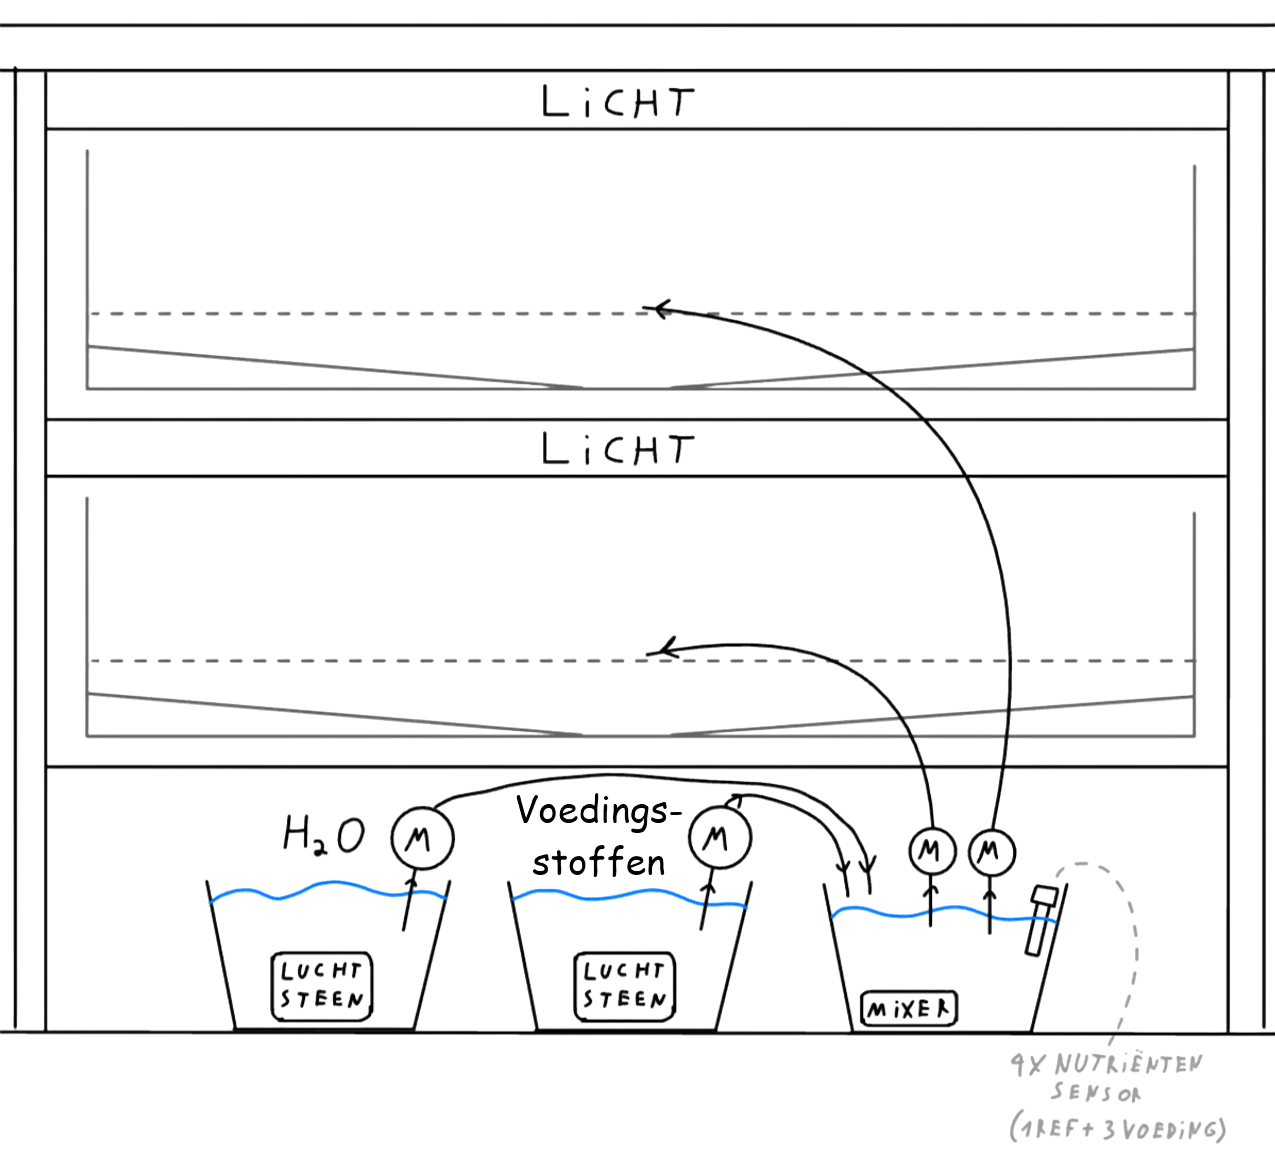
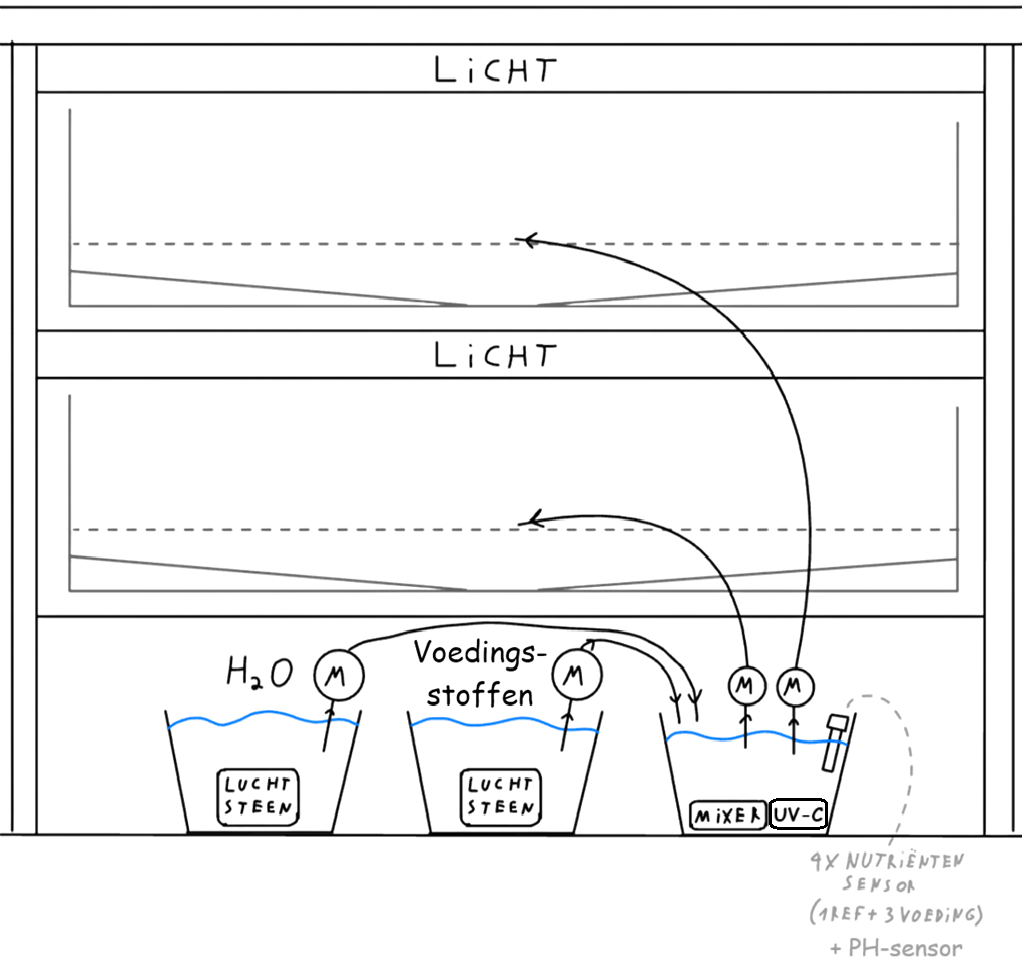
Changes to water.md

Changed region(s): [[0.0, 0.0, 1.0, 0.9928]]

diff --git a/_tabs/Water.md b/_tabs/Water.md
@@ -4,16 +4,10 @@ icon: fas fa-droplet
 order: 2
 ---
 
-<!-- Nieuwe indeling -->
-
-
 > Under construction
 {: .prompt-warning }
 
 ## Inhoud
-<!-- Dit zorgt wel dat het volledige eerste scherm inhoud is -->
-<!-- Is idd wel handig voor langere pagina's -->
-<!-- Mss met opmaak, beste van beide (wel voor later, esthetica) -->
 1. [Introductie](#introductie)
 2. [Toevoer](#toevoer)
    - [Reservoirs](#reservoirs)
@@ -40,7 +34,6 @@ order: 2
    
    <!-- Gewacht met opmaak tot layout meer definitief is -->
 
-
 ## Introductie
 Water wordt samengebracht met voedingsstoffen in een mengreservoir. Na het mengen wordt het water naar de lades gepompt waar het door de plantjes kan opgenomen worden. Hierna keert het restwater terug naar het mixvat om gerecupereert te worden.
 
@@ -51,35 +44,67 @@ Het watersysteem bestaat uit twee hoofdonderdelen:
 We bespreken deze onderdelen verder in detail in volgende secties.
 
 <img src="{{ '/assets/img/Watersysteem/Plan_Watersysteem.png' | relative_url }}" alt="Schematische tekening van het watersysteem" width="600" />
-<!-- + PH + UV-C + ... -->
 
 ## Toevoer
 ### Reservoirs:  
+
+<img src="{{ '/assets/img/Watersysteem/reservoir.png' | relative_url }}" alt="Afbeelding van reservoir" width="400" />
+
 Het systeem bevat drie reservoirs:
 - Waterreservoir
 - Voedingsstofreservoir
 - Mengreservoir
 
-<!-- - -->
 Dit zijn de bloembakken van vorig project. Deze waren ruim genoeg en konden eenvoudig geïntegreerd worden binnen ons ontwerp. 
 
+- **Voordelen:**   
+    - Budgetvriendelijk
+    - Goede integratie
+    - Makkelijk te reinigen
+- **Nadeel:**
+    - Niet afsluitbaar
+<!-- Niks vermeld over Volume-->    
+
 De drie reservoirs zijn uitneembaar, wat het reinigen en bijvullen eenvoudig maakt. Elk reservoir is uitgerust met een ultrasone sensor voor het nauwkeurig meten van het vloeistofniveau. Om algengroei te voorkomen, wordt het water in de reservoirs continu gecirculeerd met behulp van luchtpompen en luchtstenen.
-Meer informatie over de gebruikte componenten vindt u terug bij [componenten en keuzes](#componenten-en-keuzes).
-<!-- Ik zou dit niet in het midden van de paragraaf zetten -->
 
 In het mengreservoir komt het water samen met de voedingsstoffen. Een aquariumpomp zorgt hier voor het mengen en circuleren van de vloeistof. Daarnaast is het mengreservoir voorzien van een UV-C lamp, als extra maatregel tegen micro-organismen en biologische verontreiniging. Dit mengreservoir bevat ook de nodige chemische probes om een ideale verhouding van voedingsstoffen te voorzien.
 
+Meer informatie over de gebruikte componenten vindt u terug bij [componenten en keuzes](#componenten-en-keuzes).
+
+### Tubes
+De [tubes](https://www.tinytronics.nl/nl/mechanica-en-actuatoren/onderdelen/slangen/waterslang-voor-onderwaterpomp-verticaal-horizontaal-3-6v-transparant-1-meter){:target="_blank"} hebben een diameter van 8 mm en zijn bedoeld voor de transport van water. 
+ 
+- **Voordelen:**    <!-- Waarom zijn sommige van deze punten voordelen en-of nadelen? Bv geen hoge druk nodig voor onze toepassing.-->    
+    - Flexibel
+    - Transparant, we kunnen de waterflow en mogelijke verstoppingen nakijken  
+    - Compatibel met kleine pompen
+    - Lichtgewicht en makkelijk op maat te knippen.
+- **Nadelen:**     
+    - Niet geschikt voor hoge druk
+    - Kan knikken bij scherpe bochten
+    - Niet UV-bestendig
+
+### Quick connectors tubes
+<img src="{{ '/assets/img/Watersysteem/connect.png' | relative_url }}" alt="Afbeelding van de connectors" width="400" />
+
+De [Push-to-Connect koppelingen](https://nl.aliexpress.com/item/1005005808872752.html?spm=a2g0o.productlist.main.7.3edaJcT6JcT6q5&algo_pvid=3a7059ff-e7ee-43a2-b5fc-a499e4ff6cb3&algo_exp_id=3a7059ff-e7ee-43a2-b5fc-a499e4ff6cb3-3&pdp_ext_f=%7B%22order%22%3A%22400%22%2C%22eval%22%3A%221%22%7D&pdp_npi=4%40dis%21EUR%212.75%210.97%21%21%212.81%210.99%21%402103864c17398869650571235ecd39%2112000034430185033%21sea%21BE%210%21ABX&curPageLogUid=4qEj3wATijZm&utparam-url=scene%3Asearch%7Cquery_from%3A){:target="_blank"} worden gebruikt om verschillende buizen of componenten snel en stevig met elkaar te verbinden zonder gebruik van klemmen of lijm.
+
+- **Voordelen:** 
+    - Snelle installatie
+    - Hergebruikbaar
+    - Sterke afdichting 
+    - Compact
+    - Makkelijke modulariteit
+- **Nadelen:** 
+    - Slijt van de sluiting kan zorgen voor lekken over tijd
+    - Kan loskomen bij slechte plug in 
+    - Heeft een relatief complexe handeling nodig, voor het verplaatsen van lades
+
 ### Pompsysteem: 
 1. Twee pompen brengen water en voedingsstoffen vanuit hun respectievelijke reservoirs naar het mengreservoir.
-2. Vanuit het mengreservoir transporteren aparte pompen de gemengde vloeistof naar de lades. 
-In de kast is er voldoende ruimte voor twee laden met planten varierend in hoogte, om deze reden maken we gebruik van twee pompen voor de toevoer. Aan elke pomp kunnen darmpjes op verschillende hoogtes worden aangesloten, waardoor we een modulair systeem hebben gecreëerd dat eenvoudig uitbreidbaar en aanpasbaar is.
+2. Vanuit het mengreservoir transporteren aparte pompen de gemengde vloeistof naar de lades. In de kast is er voldoende ruimte voor twee laden met planten varierend in hoogte, om deze reden maken we gebruik van twee pompen voor de toevoer. Aan elke pomp kunnen darmpjes op verschillende hoogtes worden aangesloten, waardoor we een modulair systeem hebben gecreëerd dat eenvoudig uitbreidbaar en aanpasbaar is. De watertoevoer kan met quick-connectors aan de lades van plantenbak verbonden worden.
 
 <img src="{{ '/assets/img/Watersysteem/Pompen_Aansluiting.jpg' | relative_url }}" alt="Afbeelding van aansluiting pomp" width="400" style="border-radius: 15px;" />
-
-### Lades
-<!-- Lijkt mij dan niet zeer nuttig om dit een paragraaf te maken -->
-Het systeem ondersteunt twee irrigatiemethoden. Meer details hierover vind je op de Plantenbak-pagina, in de sectie '[De twee lades
-](https://vertical-farming-ib3.github.io/Plantenbak/#De-twee-lades)'.  
 
 ## Afvoer
 De afvoer van water gebeurt op basis van zwaartekracht. De lade staat licht gekanteld, zodat overtollig water terugstroomt naar het mengreservoir. Hierdoor is er geen extra pomp nodig voor de afvoer. Om de kast te beschermen tegen waterschade wordt gebruikgemaakt van een centrale pvc-buis. De pvc-buis is deels open gesneden en voorzien van afdekkingen om spatten op te vangen. Op deze manier behouden we een hoge mate van modulariteit in het systeem.
@@ -94,6 +119,7 @@ Het afgevoerde water wordt niet zomaar geloosd. In het mengreservoir wordt dit r
 De PCB van het watersysteem moet een hele reeks inputs en digitale outputs verzorgen:
 - Inputs
     - Chemische probes (analoog): 3 probes + 1 referentieprobe d.m.v. externe 16 bits ADC (I^2C)
+    - PH-probe (digitaal)
     - Ultrasone hoogtesensoren (digitaal): 3 sensoren
     - Eindeloopschakelaars (digitaal): 1 sensor (we voorzagen 3 aansluitingen)
     - Stroommeting (analoog): 1 onboard ADC input
@@ -105,82 +131,24 @@ De PCB van het watersysteem moet een hele reeks inputs en digitale outputs verzo
     - Luchtpomp: 12V relais
     - Waterpompen: 4 x 12V relais
 
-We maakten gebruik van een IO-expander (MCP23017) die aan te sturen is via I2C. Het uitlezen van de analoge probes vereist een ADC met hoge resolutie. Hiervoor maken we gebruik van een 16-bits ADC (ADS1115). Deze wordt ook uitgelezen via I2C.
+We maakten gebruik van een IO-expander (MCP23017) die aan te sturen is via I^2C. Het uitlezen van de analoge probes vereist een ADC met hoge resolutie. Hiervoor maken we gebruik van een 16-bits ADC (ADS1115). Deze wordt ook uitgelezen via I^2C.
+Voor het bijhouden van het energieverbruik maken we gebruik van een Hall-effect stroomsensor, verder besproken in Power.q
 
-Voor het bijhouden van het energieverbruik maken we gebruik van een Hall-effect stroomsensor. Hierover leest u meer onder [Componenten en keuzes](#hallefect-stroomsensor).^
-<!--Niet in power?-->
-
-Het schema van onze PCB is [hier](https://github.com/Vertical-Farming-IB3/Plan-T/blob/main/Water/PCB/Schematic.pdf) terug te vinden. De pin-out van de in- en outputs is [hier](https://github.com/Vertical-Farming-IB3/Plan-T/blob/main/Water/PCB/PCB.md#pinout) terug te vinden.
-
-Het volledige ontwerp van de PCB is terug te vinden op onze [GitHub-pagina](https://github.com/Vertical-Farming-IB3/Plan-T/tree/main/Water/PCB).
-<!--YAML niet zoals de rest in software plaatsen?-->
-<!--3 links naar +- dezelfde locatie-->
-
-<!--Voelt hier een beetje als een opleisting-->
+Meer informatie over de pcb, zoals het schema en de pin-out vind u [hier](https://github.com/Vertical-Farming-IB3/Plan-T/blob/main/Water/PCB/). Het volledige ontwerp van de PCB is terug te vinden op onze [GitHub-pagina](https://github.com/Vertical-Farming-IB3/Plan-T/tree/main/Water/PCB).
 
 ### Software
+<!--YAML niet zoals de rest in software plaatsen?-->
 We maken gebruik van Home Assistant in combinatie met ESPHome. Op onze PCB staat code die gegenereert wordt via ESPHome. We beschrijven deze code in een [yaml-bestand](https://github.com/Vertical-Farming-IB3/Plan-T/blob/main/Water/PCB/watersysteem.yaml).
 
-Dankzij de koppeling met Home Assistant kunnen we nu zeer makkelijk ieder component uitlezen en aansturen. Het aansturen van de componenten gebeurt aan de hand van 'automatisaties'. Deze worden uitgevoerd op onze lokale Home-Assistant server die alle systemen zo samenbrengt.  
-Het uitlezen van de data gebeurt ook via deze server. Deze data wordt dan samengebracht op een dashboard die de gebruiker kan raadplegen.
+Dankzij de koppeling met Home Assistant kunnen we zeer makkelijk iedere component uitlezen en aansturen. Het aansturen van de componenten gebeurt aan de hand van 'automatisaties'. Deze worden uitgevoerd op een lokale server die alle systemen zo samenbrengt. Het uitlezen van de data gebeurt ook via deze server. Deze data wordt dan samengebracht op een dashboard die de gebruiker kan raadplegen.
 
 <!--Nog uitleg nodig voor gebruik van Dashboard?-->
 
 ### Pompaansturing
-De watercirculatie wordt op regelmatige tijdsintervallen geactiveerd om algengroei tegen te gaan. Algengroei ontstaat door stilstaand voedingstofrijk water, andere invloeden zijn de hoeveelheid water en de aanwezigheid van schaduw of licht. Het mixreservoir wordt op pijl gehouden wanneer dit te laag komt te staan. <!--Beetje een rare zin--> Hiervoor wordt gebruik gemaakt van een ultrasone sensor om de hoogte van het reservoir te bepalen. Deze sensoren werden simpelweg gekalibreerd door een meting te doen wanneer het reservoir leeg en vol is.
+De watercirculatie wordt op regelmatige tijdsintervallen geactiveerd om algengroei tegen te gaan. Algengroei ontstaat door stilstaand voedingstofrijk water, andere invloeden zijn de hoeveelheid water en de aanwezigheid van schaduw of licht. Het waterpijl van de reservoirs word gemonitord en aangevuld wanneer dit te laag komt te staan. Hiervoor wordt gebruik gemaakt van een ultrasone sensor. Deze sensoren werden simpelweg gekalibreerd door een meting te doen wanneer het reservoir leeg en vol is.
+De lades worden voorzien van water wanneer zij dit nodig hebben, aan de hand van routines in de HomeAssistant. 
 
-De lades worden voorzien van water wanneer zij dit nodig hebben. Hiervoor verwijzen we naar de pagina van de [plantenbakken](https://vertical-farming-ib3.github.io/Plantenbak/).
-<!--Herhaling, zelfde verwijzing naar lades--> 
-
-
-### UV-C
-<!-- Ik krijg het gevoel dat er redelijk wat herhaling is op deze pagina-->
-<!-- Kan hier niet veel meer vermelden dat al op andere plaatsen word vermeld-->
-De UV-C lamp word geplaatst in het mengreservoir, dit is het reservoir met de voedingsstoffen en de meeste verontreiniging.
-...
-
-## Componenten en keuzes
-### Reservoirs
-<img src="{{ '/assets/img/Watersysteem/reservoir.png' | relative_url }}" alt="Afbeelding van reservoir" width="400" />
-
-De resevoirs zijn bedoeld als opslag van zuiver water, voedingsstoffen, en restwater. <!-- Restwater?-->
-
-- **Voordelen:**   
-    - Budgetvriendelijk
-    - Goede integratie
-    - Makkelijk te reinigen
-- **Nadeel:**
-    - Niet afsluitbaar
-<!-- Niks vermeld over Volume-->    
-
-### Tubes
-De [tubes](https://www.tinytronics.nl/nl/mechanica-en-actuatoren/onderdelen/slangen/waterslang-voor-onderwaterpomp-verticaal-horizontaal-3-6v-transparant-1-meter){:target="_blank"} hebben een diameter van 8 mm en zijn bedoeld voor de transport van water. 
- 
-- **Voordelen:**    <!-- Waarom zijn sommige van deze punten voordelen en-of nadelen? Bv geen hoge druk nodig voor onze toepassing.-->    
-    - Flexibel
-    - Transparant   
-    - Compatibel met kleine pompen
-    - Lichtgewicht en makkelijk op maat te knippen.
-- **Nadelen:**     
-    - Niet geschikt voor hoge druk
-    - Kan knikken bij scherpe bochten
-    - Niet UV-bestendig
-
-### Quick connectors tubes
-<img src="{{ '/assets/img/Watersysteem/connect.png' | relative_url }}" alt="Afbeelding van de connectors" width="400" />
-
-De [Push-to-Connect koppelingen](https://nl.aliexpress.com/item/1005005808872752.html?spm=a2g0o.productlist.main.7.3edaJcT6JcT6q5&algo_pvid=3a7059ff-e7ee-43a2-b5fc-a499e4ff6cb3&algo_exp_id=3a7059ff-e7ee-43a2-b5fc-a499e4ff6cb3-3&pdp_ext_f=%7B%22order%22%3A%22400%22%2C%22eval%22%3A%221%22%7D&pdp_npi=4%40dis%21EUR%212.75%210.97%21%21%212.81%210.99%21%402103864c17398869650571235ecd39%2112000034430185033%21sea%21BE%210%21ABX&curPageLogUid=4qEj3wATijZm&utparam-url=scene%3Asearch%7Cquery_from%3A){:target="_blank"} worden gebruikt om verschillende buizen of componenten snel en stevig met elkaar te verbinden zonder gebruik van klemmen of lijm.
-
-- **Voordelen:** <!-- Makkelijke modulariteit-->    
-    - Snelle installatie
-    - Hergebruikbaar
-    - Sterke afdichting 
-    - Compact
-- **Nadelen:** <!-- Slijt; Heeft een 'complexe' handeling nodig voor loskoppelen; --> 
-    - Minder geschikt bij hoge druk 
-    - Kan loskomen bij slechte plug in 
-    - Enkel 8mm → 8mm
-
+## Componenten
 ### Waterpomp
 <img src="{{ '/assets/img/Watersysteem/Waterpomp.png' | relative_url }}" alt="Afbeelding van de waterpomp" width="400" />
 
@@ -270,7 +238,10 @@ De [UV-C sterilisator](https://nl.aliexpress.com/item/1005006110975582.html?spm=
     - Kan gevaarlijk zijn bij directe blootstelling aan mens of dier (goede afscherming vereist)
 
 ### Hallefect stroomsensor 
-<!--Kjell-->
+De stroommeeting gebeurt aan de hand van een Hall current sensor. Deze onderbreekt de stroom en meet aan de hand van een meetstroom geinduceerd door het hall effect de totale stroom. <!--snel geschreven-->
+
+hall-effect-cs
+<img src="{{ '\assets\img\Watersysteem\hall-effect-cs.jpg' | relative_url }}" alt="Hall effect" width="400" />
 
 ### Probes
 Elke plant heeft dezelfde voedingsstoffen nodig, deze voedingsstoffen zijn opgedeeld in verschillende klassen en zijn gekoppeld aan verschillende concentraties. De primaire voedingsstoffen zijn: Stikstof (N), Fosfor (P) en Kalium (K). Secundaire voedingsstoffen zijn Calcium (Ca), Magnesium (Mg) en Zwavel (S). En hiernaast zijn er ook nog vele micronutriënten. Om de waterkwaliteit in de gaten te houden maken we gebruik van probes (elektroden). We kunnen echter niet voor elk van deze voedingsstoffen een elektrode voorzien, daarom beperken we ons tot een deelset. We kozen voor het gebruik van:
@@ -279,20 +250,19 @@ Elke plant heeft dezelfde voedingsstoffen nodig, deze voedingsstoffen zijn opged
 * [Kalium probe](https://www.alibaba.com/product-detail/ISE-K-Potassium-Ion-Selective-Electrode_1600225607843.html?spm=a2756.order-detail-ta-ta-b.0.0.58caf19cLXQOM1){:target="_blank"}
 * [Calcium probe](https://www.alibaba.com/product-detail/PCa-1-01-Calcium-Ion-Selective_60659669573.html?spm=a2756.order-detail-ta-ta-b.0.0.58caf19cLXQOM1){:target="_blank"}
 
-De reden waarom we het calciumgehalte opmeten en niet het fosforgehalte is omdat een probe voor het meten van fosfaten veel duurder is in vergelijking met de andere probes. <!-- er staat ook geen p waarde op ons fles, maar dat is nu louter toeval en maakt P niet onbelangrijk --> De calcium probe is geïntegreerd omdat we stevige planten willen kweken in ons vertical farm. <!-- ... --> Daarnaast verwerkten we nog twee andere probes:
+De reden waarom we het calciumgehalte opmeten en niet het fosforgehalte is omdat een probe voor het meten van fosfaten veel duurder is in vergelijking met de andere probes. De calcium probe is geïntegreerd omdat we stevige planten willen kweken in ons vertical farm. Daarnaast verwerkten we nog twee andere probes:
 
 * [PH probe](https://nl.aliexpress.com/item/1005006063176996.html?spm=a2g0o.productlist.main.115.307031c2JATBrr&algo_pvid=62d5342a-588c-4537-a674-e9afbfd1070f&algo_exp_id=62d5342a-588c-4537-a674-e9afbfd1070f-57&pdp_ext_f=%7B%22order%22%3A%22313%22%2C%22eval%22%3A%221%22%7D&pdp_npi=4%40dis!EUR!6.03!4.82!!!6.34!5.07!%40210385a817430803088781346eafba!12000035561276406!sea!BE!0!ABX&curPageLogUid=X6BxvMVVvpLV&utparam-url=scene%3Asearch%7Cquery_from%3A){:target="_blank"}
 * [Referentie probe](https://www.alibaba.com/product-detail/232-01-Reference-Electrode-Glass-Shell_60668853882.html?spm=a2756.order-detail-ta-ta-b.0.0.58caf19cLXQOM1){:target="_blank"}
 
 De referentie probe is essentieeel voor het uitlezen van de overige probes. De PH-sensor is geïntegreerd omdat verschillende planten houden van een verschillende bodem zuurtegraad. Er is beslist om geen temperatuurprobe te integreren, we werken namelijk met een installatie binnenshuis, we veronderstellend dat de temperatuur relatief constant blijft. Daarnaast word de temperatuur in de kast gemeten, we zien dit als voldoende maatstaaf om de watertemperatuur te bepalen.
 
-Dit maakt dat in totaal 5 probes zijn geïntegreerd. Deze probes worden gecallibreerd voor ze gebruikt kunnen worden, daarvoor zijn nog enkele componenten nodig, deze zullen we hieronder bespreken. De probes worden uitgelezen aan de hand van ADC-convertoren. <!-- , deze zijn gerecycled uit het vorige project.--> <!-- Dit klopt dan niet, gebeurd dit op print, de gerecycleerde ADC is voor vermogenmeting --> De proben zijn temperatuurgevoelig, dit wil zeggen dat bij een verschillende watertemperatuur de probes verschillende meetwaarden kunnen teruggeven bij eenzelfde concentratie. Onze Vertical Farm bevind zich echter in een setting binnenshuis, we gaan er hierbij vanuit dat de temperatuurschommeling in de kast minimaal is. Hiernaast word de temperatuur bijgehouden in de plantenbak, deze meetwaarde is voldoende referentie om de probes af te stellen op temperatuurswijzigingen. <!-- Nakijken!!! Dit hebben we nog niet geverifieerd.-->
+Dit maakt dat in totaal 5 probes zijn geïntegreerd. Deze probes worden gecallibreerd voor ze gebruikt kunnen worden, daarvoor zijn nog enkele componenten nodig, deze zullen we hieronder bespreken. De probes worden uitgelezen aan de hand van ADC-convertoren. De proben zijn temperatuurgevoelig, dit wil zeggen dat bij een verschillende watertemperatuur de probes verschillende meetwaarden kunnen teruggeven bij eenzelfde concentratie. Onze Vertical Farm bevind zich echter in een setting binnenshuis, we gaan er hierbij vanuit dat de temperatuurschommeling in de kast minimaal is. Hiernaast word de temperatuur bijgehouden in de plantenbak, deze meetwaarde is voldoende referentie om de probes af te stellen op temperatuurswijzigingen. <!-- Nakijken!!! Dit hebben we nog niet geverifieerd.-->
 
 #### Kallibratie
-Deze probes moeten gecallibreerd worden voor het correct uitmeten van de voedingsstoffen in het mengreservoir. Om deze kallibratie te kunnen uitvoeren zijn er vloeistoffen nodig met een gekende concentratie van de te meten nutriënten. We maken drie verschillende concentraties van deze stoffen om een driepuntskalibratie uit te voeren, dit geeft een nauwkeurige meting, waarop we ons verder kunnen baseren. Eerst maken we hiervoor enkele stockoplossingen die we vervolgens kunnen verdunnen om de gewenste kallibratievloeistoffen te bekomen.    <!--Herhaling? Maar leek niet juist om zonder context de stockopllossingen en kallibratievloeistoffen te bespreken.-->
+Deze probes moeten gecallibreerd worden voor het correct uitmeten van de voedingsstoffen in het mengreservoir. Om deze kallibratie te kunnen uitvoeren zijn er vloeistoffen nodig met een gekende concentratie van de te meten nutriënten. We maken drie verschillende concentraties van deze stoffen om een driepuntskalibratie uit te voeren, dit geeft een nauwkeurige meting, waarop we ons verder kunnen baseren. Eerst maken we hiervoor enkele stockoplossingen die we vervolgens kunnen verdunnen om de gewenste kallibratievloeistoffen te bekomen. 
 
 **Stockoplossingen**
-
 We maken een aantal stockoplossingen, deze stockoplossingen zijn versterkte concentraties van zoutoplossingen voor het kalibreren van de elektroden, we zullen deze stockoplossingen volgens de juiste verhouding verdunnen. De stockoplossingen bevatten elk een aantal gewenste ionen, deze ionen worden gemeten door de elektroden waardoor we met deze bekende concentraties de elektroden juist kunnen afstemmen voor latere metingen.
 
 _Gewenste stockoplossingen_
@@ -316,7 +286,6 @@ _Eigenlijke stockoplossingen_
 | K<sup>+</sup>    | KOH             | 56,1100 | 200                            | 0,5829                    | 2,9145            | 2,0300                            |
 
 **Kalibratievloeistoffen**
-
 Voor het kalibreren van de elektroden maken we gebruik van een driepuntsmeting, hiervoor maken we drie verschillende concentraties van de stockoplossing; een lage, medium en hoge concentratie. We meten vervolgens voor deze drie concentraties de probes (=elektroden) uit, waarna we een lineaire benadering kunnen trekken door deze drie punten. Op deze rechte kunnen we vervolgens met goede precisie onze probes kalibreren. Dit is nauwkeuriger dan een kallibratie met 1 meetpunt.
 
 |                  | Low    | Medium | High   |
@@ -327,18 +296,14 @@ Voor het kalibreren van de elektroden maken we gebruik van een driepuntsmeting, 
 | K<sup>+</sup>    | 100    | 200    | 400    |
 
 **Referentie vloeistof**
+De elektroden hebben ook een referentie nodig, hiervoor wordt een referentie probe gevuld met een bekende vloeistof. Dit is 3M KCl gesatureerd met AgCl. Deze oplossing kunnen we aankopen en hoeven we niet zelf te maken.
 
-De elektroden hebben ook een referentie nodig, hiervoor wordt een referentie probe gevuld met een bekende vloeistof. Dit is 3M KCl gesatureerd met AgCl. Deze oplossing kunnen  we echter aankopen en hoeven we niet zelf te maken.
-
-**Voedingsstoffen** <!-- hier of op verwijzing hieronder? Vet of titel? #### Voedingsstof  -->
-
+**Voedingsstoffen** 
 We hebben ervoor gekozen om geen eigen voedingsstoffen samen te stellen voor het voeden van de planten, in de plaats daarvan kozen we voor een commerciële oplossing. We hebben hiervoor plantenvoeding gekocht. Deze plantenvoeding heef een NK waarde van  2.5-4. Deze waarde verwijst naar de verhouding van stikstof en kalium in de voedingsstof. In ons geval bevat de voeding 2.5% Stikstof, dit bevordert de bladgroei en algemene groei van de plant en 4% Kalium, dit versterkt de weerstand van de plant, bevordert de wortelontwikkeling en de bloei/vruchtvorming. Er staat geen fosfor vermeld, dit wil zeggen dat de gekozen plantenvoeding weinig tot geen fosfor bevat. Voor een betere opbrengst van de kast is het dus een goeie optie in een later stadium te kijken voor hogere kwaliteit voedingsstoffen. In de gebruikershandleiding staan ook aanbevolen verhoudingen voor verschillende soorten planten namelijk: kruiden ¼ dop per 2l, groenten 1 dop per 5l. Dit is een interessante verhouding om mee te nemen voor de  tuning van de vertical farm en de mogelijke verschillende gewassen.
 
 **Kallibratie**
 
 Zodra de drie concentraties voor een sensor zijn gemaakt, vindt de 3-puntskalibratie plaats. De referentie-ISE en de stofspecifieke ISE worden achtereenvolgens in elk van de drie stofspecifieke concentraties geplaatst en de spanning wordt gemeten. 
-
-<!-- Kallibratie nog opnieuw doen en aanpassen-->
 
 | Ion  | Concentratie | Oplossing | Gemeten spanning |
 | ---- | ------------ | --------- | ---------------- |
@@ -352,9 +317,3 @@ Zodra de drie concentraties voor een sensor zijn gemaakt, vindt de 3-puntskalibr
 | K⁺   | Low          | 101.5     | 91.0             |
 | K⁺   | Med          | 203.0     | 106.0            |
 | K⁺   | High         | 406.0     | 118.0            |
-
-<!-- Toevoer en afvoer first draft, integreren met bestaand -->
-<!-- Werken Charlotte en ik nu de site af en Kjell en Sander de code? Navragen... -->
-<!-- Nakijken oude indeling indien nodig, zie vorige commits. :-) -->
-<!-- Mss wel interresant om eens te bekijken, maar nieuw ziet er goed uit. -->
-<!-- Ik denk dat alles van oud (inhoudelijk) ondertussen is opgenomen in nieuw -->
